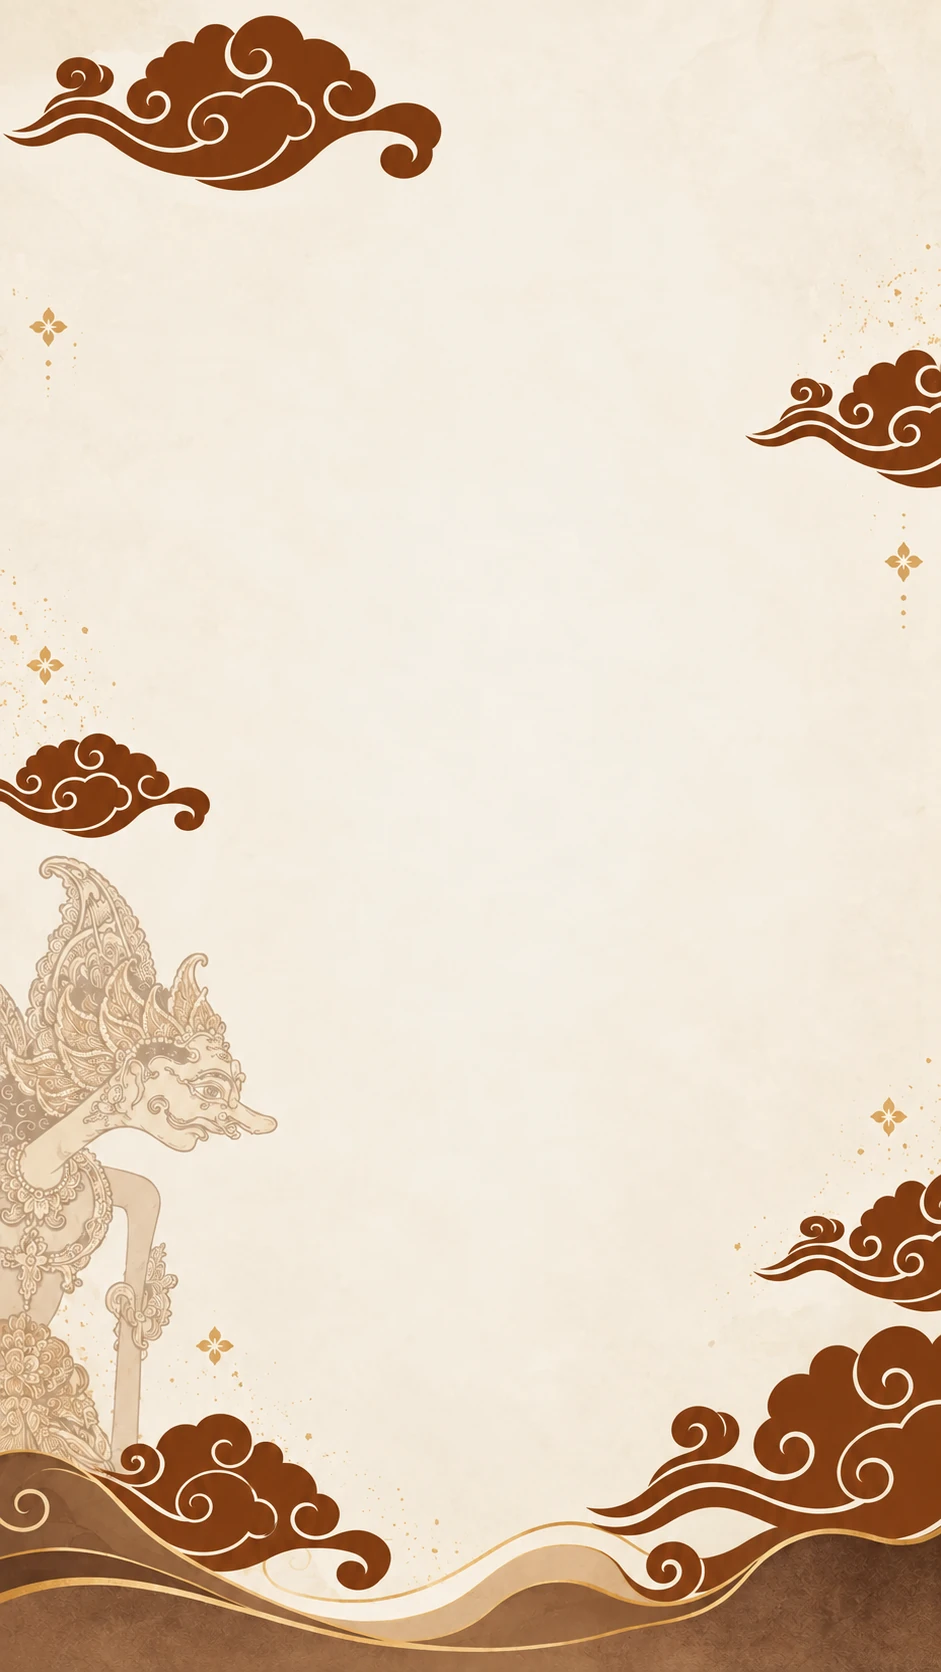
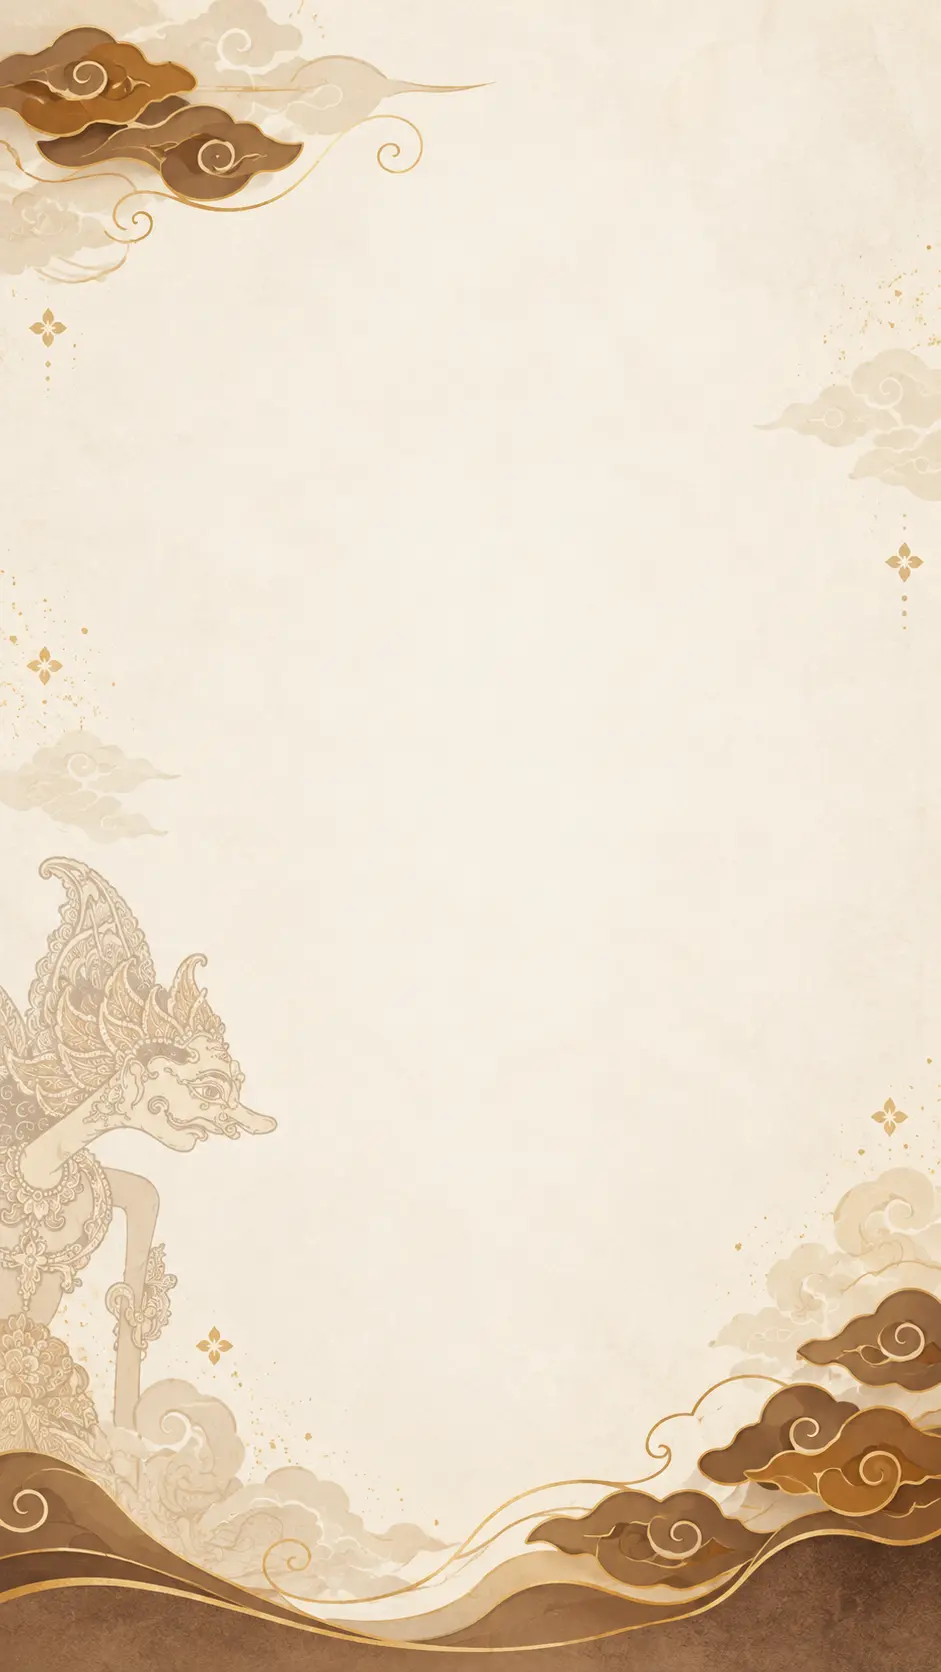
Remove the merged invitation background

diff --git a/themes/adat-jawa/WayangJawa.tsx b/themes/adat-jawa/WayangJawa.tsx
@@ -1168,8 +1168,6 @@ function buildReferenceDocument(source: string) {
     "html,body{min-height:100%;margin:0;overflow-x:hidden!important;}",
     "body{overflow-y:auto!important;}",
     "#sec{isolation:isolate;}",
-    "html body #sec#sec .elementor-element-1f7348e::before{background:url(\"/themes/wayang-jawa/vistiq-wayang-cover-clouds.svg\") center/100% 100% no-repeat!important;}",
-    "#sec .elementor-element-1f7348e::before{background-image:url(\"/themes/wayang-jawa/vistiq-wayang-cover-clouds.svg\")!important;background-size:100% 100%!important;background-position:center!important;}",
     "#sec::before{content:\"\"!important;display:block!important;position:absolute!important;left:-28px!important;bottom:36px!important;width:164px!important;height:78px!important;z-index:4!important;pointer-events:none!important;opacity:.78!important;background:url(\"/themes/wayang-jawa/vistiq-wayang-cloud-new.webp\") left center/100% 100% no-repeat!important;}",
     "#sec::after{content:\"\"!important;display:block!important;position:absolute!important;left:0!important;right:0!important;top:auto!important;bottom:0!important;width:100%!important;height:auto!important;aspect-ratio:2048/684!important;z-index:3!important;pointer-events:none!important;clip-path:polygon(0 44%,25% 60%,50% 72%,75% 58%,100% 52%,100% 100%,0 100%)!important;background:url(\"/themes/wayang-jawa/vistiq-wayang-footer.webp\") center bottom/100% 100% no-repeat!important;}",
     "#sec .elementor-element-c58030b{display:none!important;}",

diff --git a/public/themes/wayang-jawa/vistiq-wayang.css b/public/themes/wayang-jawa/vistiq-wayang.css
@@ -3557,3 +3557,7 @@ body.rtl .vistiq-wayang .vistiq-wayang-puppet-wanita-home{left:-76px;right:auto!
 
 /* Replace clouds baked into the cover background */
 .vistiq-wayang .elementor-element.elementor-element-1f7348e::before{background-image:url("/themes/wayang-jawa/vistiq-wayang-cover-clouds.svg")!important;background-size:100% 100%!important;background-position:center top!important}
+
+/* Use a plain parchment background; cloud motifs remain separate animated assets */
+#sec{background-image:none!important;background-color:#f8f4ec!important}
+.vistiq-wayang .elementor-element.elementor-element-1f7348e::before{background-image:none!important}
